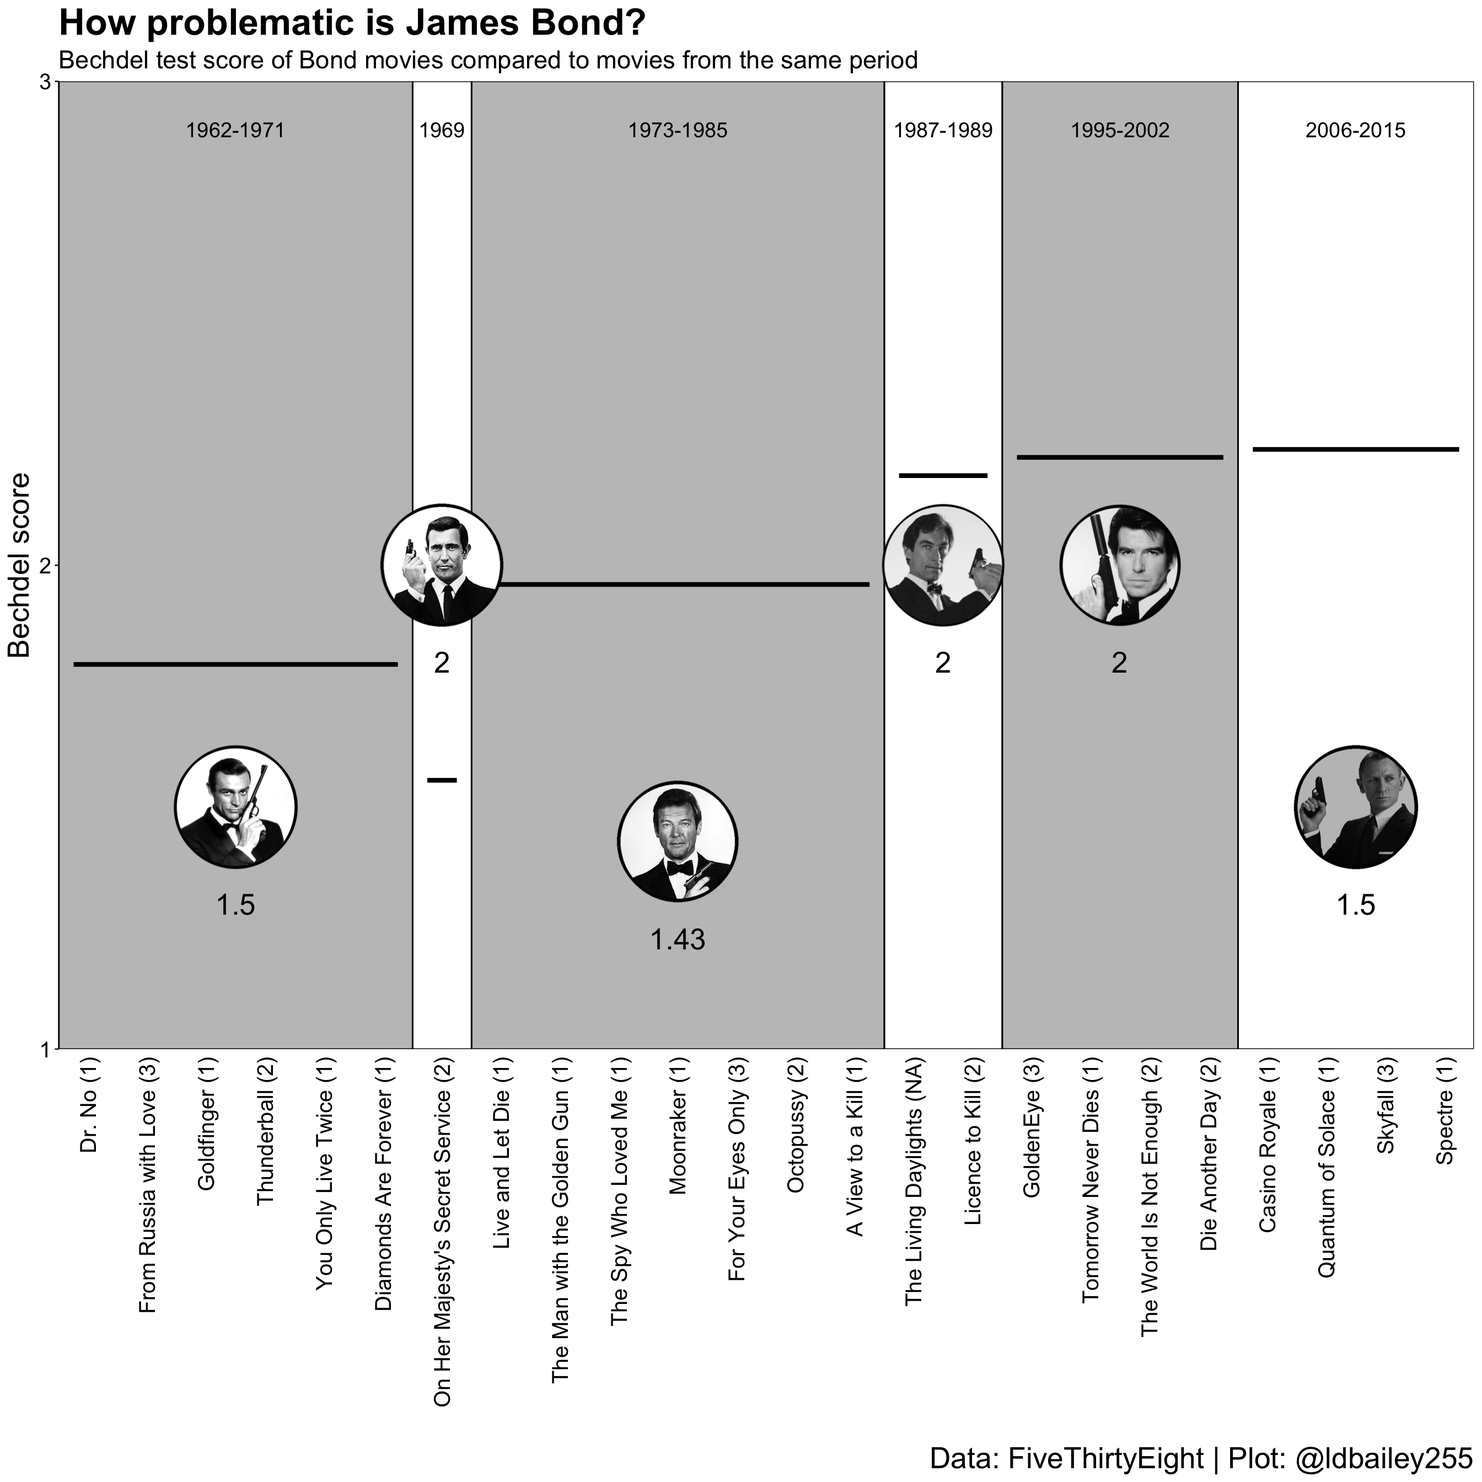
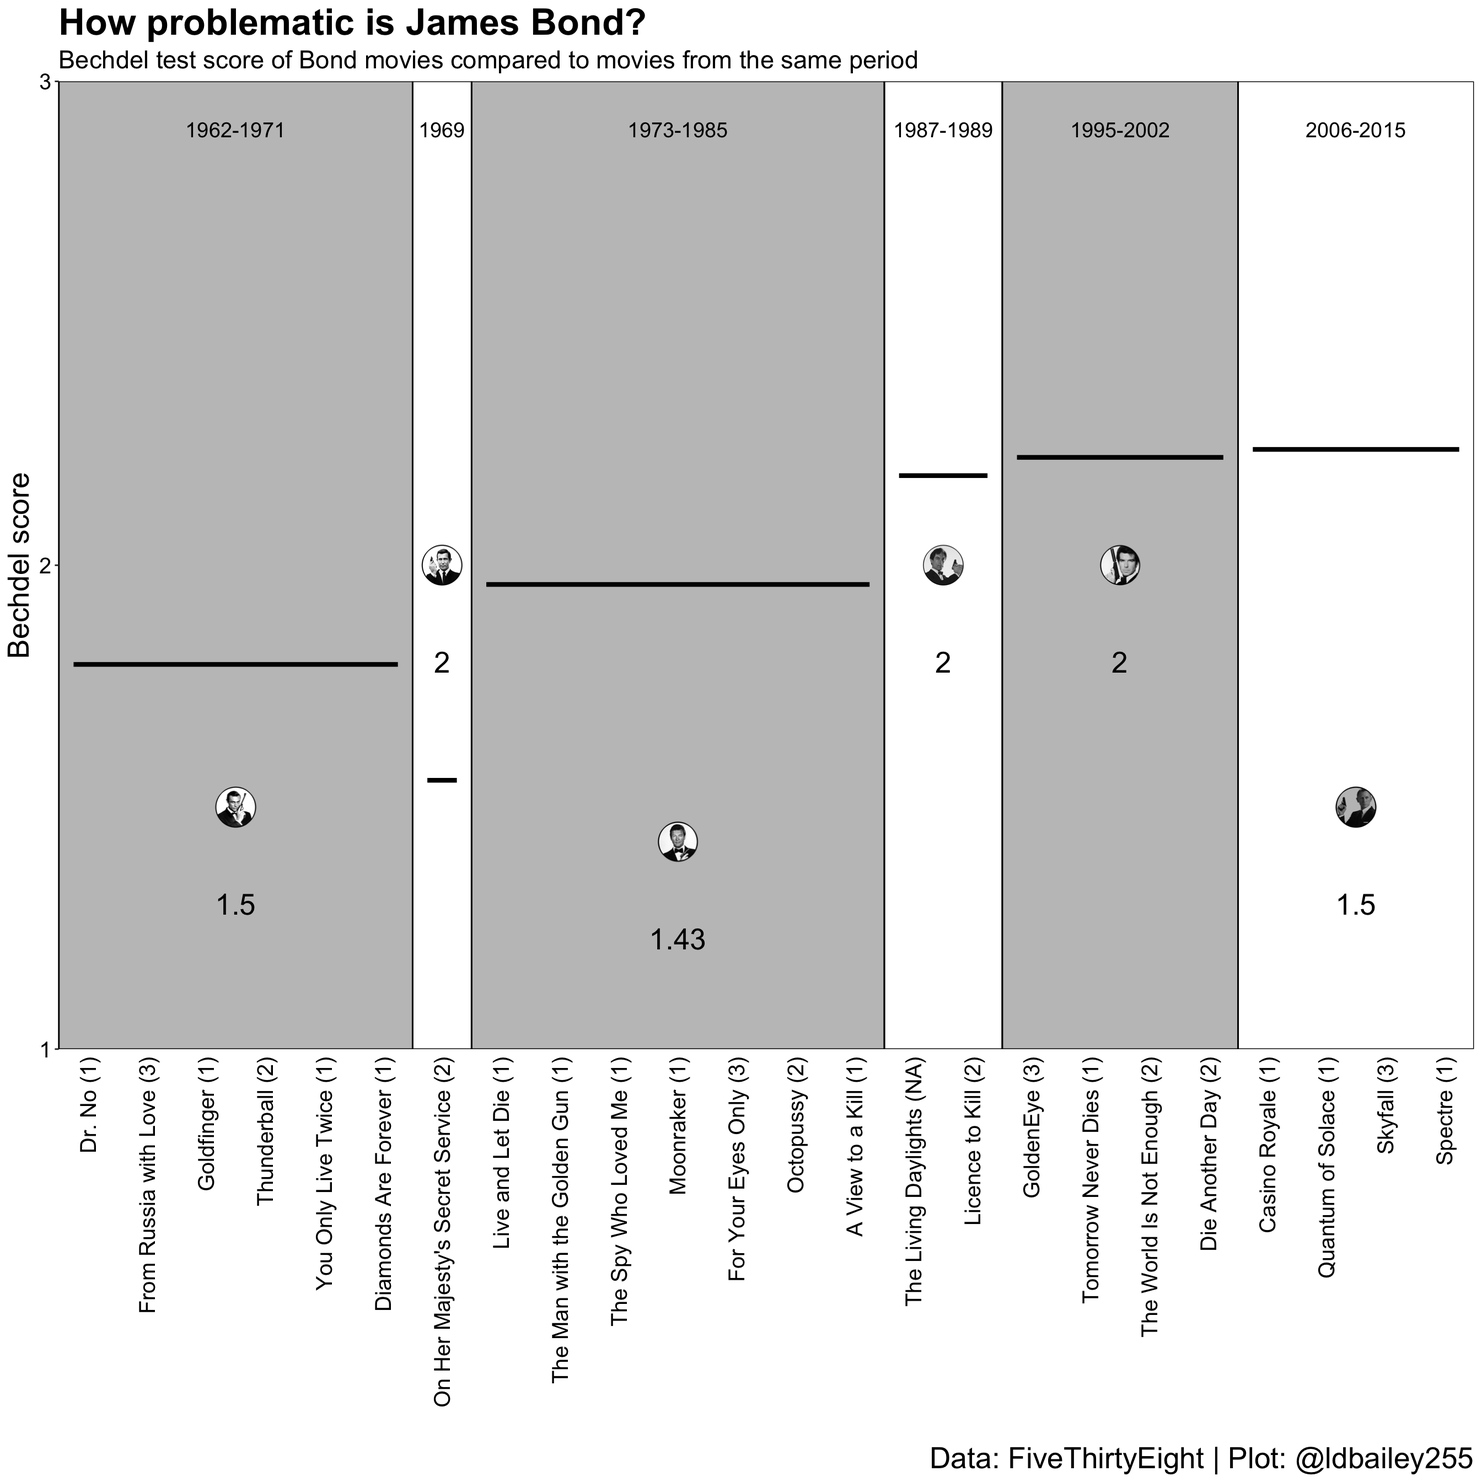
Slight improvement on Bond plot

diff --git a/_site/posts/2021-03-24-tidytuesday-week-11-2021-james-bond-s-bechdel-score-and-adding-images-in-ggplot/index.html b/_site/posts/2021-03-24-tidytuesday-week-11-2021-james-bond-s-bechdel-score-and-adding-images-in-ggplot/index.html
@@ -489,7 +489,7 @@ pre > code.sourceCode > span > a:first-child::before { text-decoration: underlin
 <span id="cb17-5"><a href="#cb17-5" aria-hidden="true" tabindex="-1"></a>  <span class="co">#For each file, read it in as a .png and then convert to a grob</span></span>
 <span id="cb17-6"><a href="#cb17-6" aria-hidden="true" tabindex="-1"></a>  <span class="fu">rowwise</span>() <span class="sc">%&gt;%</span> </span>
 <span id="cb17-7"><a href="#cb17-7" aria-hidden="true" tabindex="-1"></a>  <span class="fu">mutate</span>(<span class="at">grob =</span> <span class="fu">list</span>(grid<span class="sc">::</span><span class="fu">rasterGrob</span>(png<span class="sc">::</span><span class="fu">readPNG</span>(<span class="at">source =</span> file),</span>
-<span id="cb17-8"><a href="#cb17-8" aria-hidden="true" tabindex="-1"></a>                                      <span class="at">width =</span> <span class="fu">unit</span>(<span class="dv">3</span>, <span class="st">"cm"</span>), <span class="at">height =</span> <span class="fu">unit</span>(<span class="dv">3</span>, <span class="st">"cm"</span>))))</span>
+<span id="cb17-8"><a href="#cb17-8" aria-hidden="true" tabindex="-1"></a>                                      <span class="at">width =</span> <span class="fu">unit</span>(<span class="dv">1</span>, <span class="st">"cm"</span>), <span class="at">height =</span> <span class="fu">unit</span>(<span class="dv">1</span>, <span class="st">"cm"</span>))))</span>
 <span id="cb17-9"><a href="#cb17-9" aria-hidden="true" tabindex="-1"></a></span>
 <span id="cb17-10"><a href="#cb17-10" aria-hidden="true" tabindex="-1"></a><span class="co">#Join data frame with grobs into original data</span></span>
 <span id="cb17-11"><a href="#cb17-11" aria-hidden="true" tabindex="-1"></a>bond_era_ratings_png <span class="ot">&lt;-</span> bond_era_ratings <span class="sc">%&gt;%</span> </span>
@@ -548,15 +548,15 @@ pre > code.sourceCode > span > a:first-child::before { text-decoration: underlin
 <span id="cb20-3"><a href="#cb20-3" aria-hidden="true" tabindex="-1"></a>            <span class="at">colour =</span> <span class="cn">NA</span>, <span class="at">alpha =</span> <span class="fl">0.5</span>) <span class="sc">+</span></span>
 <span id="cb20-4"><a href="#cb20-4" aria-hidden="true" tabindex="-1"></a>  <span class="fu">geom_segment</span>(<span class="fu">aes</span>(<span class="at">x =</span> first_nr <span class="sc">+</span> <span class="fl">0.25</span>, <span class="at">xend =</span> last_nr <span class="sc">-</span> <span class="fl">0.25</span>, <span class="at">y =</span> mean_movie_rating, <span class="at">yend =</span> mean_movie_rating), <span class="at">size =</span> <span class="fl">0.75</span>) <span class="sc">+</span></span>
 <span id="cb20-5"><a href="#cb20-5" aria-hidden="true" tabindex="-1"></a>  <span class="fu">geom_text</span>(<span class="fu">aes</span>(<span class="at">x =</span> middle_point, <span class="at">y =</span> <span class="fl">2.9</span>, <span class="at">label =</span> year_text),</span>
-<span id="cb20-6"><a href="#cb20-6" aria-hidden="true" tabindex="-1"></a>            <span class="at">family =</span> <span class="st">"Mouse"</span>, <span class="at">size =</span> <span class="dv">15</span><span class="sc">/</span>.pt) <span class="sc">+</span></span>
+<span id="cb20-6"><a href="#cb20-6" aria-hidden="true" tabindex="-1"></a>            <span class="at">family =</span> <span class="st">"Mouse"</span>, <span class="at">size =</span> <span class="fl">7.5</span><span class="sc">/</span>.pt) <span class="sc">+</span></span>
 <span id="cb20-7"><a href="#cb20-7" aria-hidden="true" tabindex="-1"></a>  <span class="fu">geom_text</span>(<span class="fu">aes</span>(<span class="at">x =</span> middle_point, <span class="at">y =</span> mean_bond_rating <span class="sc">-</span> <span class="fl">0.155</span>,</span>
-<span id="cb20-8"><a href="#cb20-8" aria-hidden="true" tabindex="-1"></a>                <span class="at">label =</span> surname), <span class="at">family =</span> <span class="st">"Mouse"</span>, <span class="at">colour =</span> <span class="st">"#D53129"</span>, <span class="at">size =</span> <span class="dv">15</span><span class="sc">/</span>.pt) <span class="sc">+</span></span>
+<span id="cb20-8"><a href="#cb20-8" aria-hidden="true" tabindex="-1"></a>                <span class="at">label =</span> surname), <span class="at">family =</span> <span class="st">"Mouse"</span>, <span class="at">colour =</span> <span class="st">"#D53129"</span>, <span class="at">size =</span> <span class="fl">7.5</span><span class="sc">/</span>.pt) <span class="sc">+</span></span>
 <span id="cb20-9"><a href="#cb20-9" aria-hidden="true" tabindex="-1"></a>  <span class="fu">geom_text</span>(<span class="fu">aes</span>(<span class="at">x =</span> middle_point, <span class="at">y =</span> mean_bond_rating <span class="sc">-</span> <span class="fl">0.23</span>,</span>
 <span id="cb20-10"><a href="#cb20-10" aria-hidden="true" tabindex="-1"></a>                <span class="at">label =</span> <span class="fu">format</span>(<span class="fu">round</span>(mean_bond_rating, <span class="dv">2</span>), <span class="at">nsmall =</span> <span class="dv">2</span>)), <span class="at">family =</span> <span class="st">"Mouse"</span>,</span>
-<span id="cb20-11"><a href="#cb20-11" aria-hidden="true" tabindex="-1"></a>            <span class="at">size =</span> <span class="dv">15</span><span class="sc">/</span>.pt) <span class="sc">+</span></span>
+<span id="cb20-11"><a href="#cb20-11" aria-hidden="true" tabindex="-1"></a>            <span class="at">size =</span> <span class="fl">7.5</span><span class="sc">/</span>.pt) <span class="sc">+</span></span>
 <span id="cb20-12"><a href="#cb20-12" aria-hidden="true" tabindex="-1"></a>  <span class="fu">geom_text</span>(<span class="fu">aes</span>(<span class="at">x =</span> middle_point, <span class="at">y =</span> mean_movie_rating <span class="sc">+</span> <span class="fl">0.05</span>,</span>
 <span id="cb20-13"><a href="#cb20-13" aria-hidden="true" tabindex="-1"></a>                <span class="at">label =</span> <span class="fu">format</span>(<span class="fu">round</span>(mean_movie_rating, <span class="dv">2</span>), <span class="at">nsmall =</span> <span class="dv">2</span>)), <span class="at">family =</span> <span class="st">"Mouse"</span>,</span>
-<span id="cb20-14"><a href="#cb20-14" aria-hidden="true" tabindex="-1"></a>            <span class="at">size =</span> <span class="dv">15</span><span class="sc">/</span>.pt) <span class="sc">+</span></span>
+<span id="cb20-14"><a href="#cb20-14" aria-hidden="true" tabindex="-1"></a>            <span class="at">size =</span> <span class="fl">7.5</span><span class="sc">/</span>.pt) <span class="sc">+</span></span>
 <span id="cb20-15"><a href="#cb20-15" aria-hidden="true" tabindex="-1"></a>  egg<span class="sc">::</span><span class="fu">geom_custom</span>(<span class="fu">aes</span>(<span class="at">x =</span> middle_point, <span class="at">y =</span> mean_bond_rating, <span class="at">data =</span> grob), <span class="at">grob_fun =</span> <span class="st">"identity"</span>) <span class="sc">+</span></span>
 <span id="cb20-16"><a href="#cb20-16" aria-hidden="true" tabindex="-1"></a>  <span class="fu">scale_x_continuous</span>(<span class="at">limits =</span> <span class="fu">c</span>(<span class="dv">0</span>, <span class="cn">NA</span>), <span class="at">breaks =</span> x_labels<span class="sc">$</span>movie_nr, <span class="at">labels =</span> x_labels<span class="sc">$</span>movie) <span class="sc">+</span></span>
 <span id="cb20-17"><a href="#cb20-17" aria-hidden="true" tabindex="-1"></a>  <span class="fu">scale_y_continuous</span>(<span class="at">limits =</span> <span class="fu">c</span>(<span class="dv">1</span>, <span class="dv">3</span>), <span class="at">breaks =</span> <span class="dv">1</span><span class="sc">:</span><span class="dv">3</span>) <span class="sc">+</span></span>
@@ -568,39 +568,38 @@ pre > code.sourceCode > span > a:first-child::before { text-decoration: underlin
 <span id="cb20-23"><a href="#cb20-23" aria-hidden="true" tabindex="-1"></a>  <span class="fu">coord_fixed</span>(<span class="at">ratio =</span> <span class="dv">7</span>, <span class="at">expand =</span> <span class="cn">FALSE</span>) <span class="sc">+</span></span>
 <span id="cb20-24"><a href="#cb20-24" aria-hidden="true" tabindex="-1"></a>  <span class="fu">theme_classic</span>() <span class="sc">+</span></span>
 <span id="cb20-25"><a href="#cb20-25" aria-hidden="true" tabindex="-1"></a>  <span class="fu">theme</span>(<span class="at">legend.position =</span> <span class="st">"none"</span>, </span>
-<span id="cb20-26"><a href="#cb20-26" aria-hidden="true" tabindex="-1"></a>        <span class="at">axis.text.x =</span> <span class="fu">element_text</span>(<span class="at">angle =</span> <span class="dv">90</span>, <span class="at">hjust =</span> <span class="dv">1</span>, <span class="at">vjust =</span> <span class="fl">0.5</span>, <span class="at">size =</span> <span class="dv">15</span>,</span>
+<span id="cb20-26"><a href="#cb20-26" aria-hidden="true" tabindex="-1"></a>        <span class="at">axis.text.x =</span> <span class="fu">element_text</span>(<span class="at">angle =</span> <span class="dv">90</span>, <span class="at">hjust =</span> <span class="dv">1</span>, <span class="at">vjust =</span> <span class="fl">0.5</span>, <span class="at">size =</span> <span class="fl">7.5</span>,</span>
 <span id="cb20-27"><a href="#cb20-27" aria-hidden="true" tabindex="-1"></a>                                   <span class="at">family =</span> <span class="st">"Mouse"</span>, <span class="at">colour =</span> <span class="st">"black"</span>),</span>
-<span id="cb20-28"><a href="#cb20-28" aria-hidden="true" tabindex="-1"></a>        <span class="at">axis.text.y =</span> <span class="fu">element_text</span>(<span class="at">family =</span> <span class="st">"Mouse"</span>, <span class="at">colour =</span> <span class="st">"black"</span>, <span class="at">size =</span> <span class="dv">15</span>),</span>
+<span id="cb20-28"><a href="#cb20-28" aria-hidden="true" tabindex="-1"></a>        <span class="at">axis.text.y =</span> <span class="fu">element_text</span>(<span class="at">family =</span> <span class="st">"Mouse"</span>, <span class="at">colour =</span> <span class="st">"black"</span>, <span class="at">size =</span> <span class="fl">7.5</span>),</span>
 <span id="cb20-29"><a href="#cb20-29" aria-hidden="true" tabindex="-1"></a>        <span class="at">axis.ticks.x =</span> <span class="fu">element_blank</span>(),</span>
 <span id="cb20-30"><a href="#cb20-30" aria-hidden="true" tabindex="-1"></a>        <span class="at">axis.line.x =</span> <span class="fu">element_blank</span>(),</span>
 <span id="cb20-31"><a href="#cb20-31" aria-hidden="true" tabindex="-1"></a>        <span class="at">axis.title =</span> <span class="fu">element_text</span>(<span class="at">family =</span> <span class="st">"Mouse"</span>, <span class="at">size =</span> <span class="dv">20</span>),</span>
-<span id="cb20-32"><a href="#cb20-32" aria-hidden="true" tabindex="-1"></a>        <span class="at">plot.title =</span> <span class="fu">element_text</span>(<span class="at">family =</span> <span class="st">"Mouse"</span>, <span class="at">size =</span> <span class="dv">25</span>, <span class="at">margin =</span> <span class="fu">margin</span>(<span class="at">b =</span> <span class="fl">7.5</span>)),</span>
-<span id="cb20-33"><a href="#cb20-33" aria-hidden="true" tabindex="-1"></a>        <span class="at">plot.subtitle =</span> <span class="fu">element_text</span>(<span class="at">size =</span> <span class="dv">15</span>, <span class="at">margin =</span> <span class="fu">margin</span>(<span class="at">b =</span> <span class="dv">15</span>)))</span>
+<span id="cb20-32"><a href="#cb20-32" aria-hidden="true" tabindex="-1"></a>        <span class="at">plot.title =</span> <span class="fu">element_text</span>(<span class="at">family =</span> <span class="st">"Mouse"</span>, <span class="at">size =</span> <span class="dv">25</span>, <span class="at">margin =</span> <span class="fu">margin</span>(<span class="at">b =</span> <span class="fl">3.75</span>)),</span>
+<span id="cb20-33"><a href="#cb20-33" aria-hidden="true" tabindex="-1"></a>        <span class="at">plot.subtitle =</span> <span class="fu">element_text</span>(<span class="at">size =</span> <span class="fl">7.5</span>, <span class="at">margin =</span> <span class="fu">margin</span>(<span class="at">b =</span> <span class="fl">7.5</span>)))</span>
 <span id="cb20-34"><a href="#cb20-34" aria-hidden="true" tabindex="-1"></a></span>
 <span id="cb20-35"><a href="#cb20-35" aria-hidden="true" tabindex="-1"></a>main <span class="ot">&lt;-</span> ggplot2<span class="sc">::</span><span class="fu">ggplotGrob</span>(main_plot)</span>
 <span id="cb20-36"><a href="#cb20-36" aria-hidden="true" tabindex="-1"></a></span>
-<span id="cb20-37"><a href="#cb20-37" aria-hidden="true" tabindex="-1"></a>labels <span class="ot">&lt;-</span> <span class="fu">data.frame</span>(<span class="at">x =</span> <span class="fl">0.87</span>, <span class="at">y =</span> <span class="fu">c</span>(<span class="fl">0.8</span>, <span class="fl">0.375</span>),</span>
+<span id="cb20-37"><a href="#cb20-37" aria-hidden="true" tabindex="-1"></a>labels <span class="ot">&lt;-</span> <span class="fu">data.frame</span>(<span class="at">x =</span> <span class="fl">0.87</span>, <span class="at">y =</span> <span class="fu">c</span>(<span class="fl">0.65</span>, <span class="fl">0.375</span>),</span>
 <span id="cb20-38"><a href="#cb20-38" aria-hidden="true" tabindex="-1"></a>                     <span class="at">text =</span> <span class="fu">c</span>(<span class="st">"Movies from the same period"</span>,</span>
 <span id="cb20-39"><a href="#cb20-39" aria-hidden="true" tabindex="-1"></a>                              <span class="st">"Score of Bond movies"</span>))</span>
 <span id="cb20-40"><a href="#cb20-40" aria-hidden="true" tabindex="-1"></a></span>
 <span id="cb20-41"><a href="#cb20-41" aria-hidden="true" tabindex="-1"></a><span class="fu">ggplot</span>()<span class="sc">+</span></span>
 <span id="cb20-42"><a href="#cb20-42" aria-hidden="true" tabindex="-1"></a>  <span class="fu">scale_x_continuous</span>(<span class="at">limits =</span> <span class="fu">c</span>(<span class="dv">0</span>, <span class="dv">1</span>), <span class="at">expand =</span> <span class="fu">c</span>(<span class="dv">0</span>, <span class="dv">0</span>)) <span class="sc">+</span></span>
-<span id="cb20-43"><a href="#cb20-43" aria-hidden="true" tabindex="-1"></a>  <span class="fu">scale_y_continuous</span>(<span class="at">limits =</span> <span class="fu">c</span>(<span class="dv">0</span>, <span class="dv">1</span>), <span class="at">expand =</span> <span class="fu">c</span>(<span class="dv">0</span>, <span class="dv">0</span>)) <span class="sc">+</span></span>
+<span id="cb20-43"><a href="#cb20-43" aria-hidden="true" tabindex="-1"></a>  <span class="fu">scale_y_continuous</span>(<span class="at">limits =</span> <span class="fu">c</span>(<span class="fl">0.2</span>, <span class="fl">0.8</span>), <span class="at">expand =</span> <span class="fu">c</span>(<span class="dv">0</span>, <span class="dv">0</span>)) <span class="sc">+</span></span>
 <span id="cb20-44"><a href="#cb20-44" aria-hidden="true" tabindex="-1"></a>  <span class="fu">annotation_custom</span>(<span class="at">grob =</span> main, <span class="at">xmin =</span> <span class="dv">0</span>, <span class="at">xmax =</span> <span class="fl">0.75</span>, <span class="at">ymin =</span> <span class="dv">0</span>, <span class="at">ymax =</span> <span class="dv">1</span>) <span class="sc">+</span></span>
-<span id="cb20-45"><a href="#cb20-45" aria-hidden="true" tabindex="-1"></a>  <span class="fu">geom_curve</span>(<span class="fu">aes</span>(<span class="at">x =</span> <span class="fl">0.825</span>, <span class="at">xend =</span> <span class="fl">0.7</span>, <span class="at">y =</span> <span class="fl">0.8</span>, <span class="at">yend =</span> <span class="fl">0.725</span>), <span class="at">curvature =</span> <span class="fl">0.2</span>,</span>
+<span id="cb20-45"><a href="#cb20-45" aria-hidden="true" tabindex="-1"></a>  <span class="fu">geom_curve</span>(<span class="fu">aes</span>(<span class="at">x =</span> <span class="fl">0.825</span>, <span class="at">xend =</span> <span class="fl">0.7</span>, <span class="at">y =</span> <span class="fl">0.65</span>, <span class="at">yend =</span> <span class="fl">0.575</span>), <span class="at">curvature =</span> <span class="fl">0.2</span>,</span>
 <span id="cb20-46"><a href="#cb20-46" aria-hidden="true" tabindex="-1"></a>             <span class="at">arrow =</span> <span class="fu">arrow</span>(<span class="at">length =</span> <span class="fu">unit</span>(<span class="fl">0.1</span>, <span class="st">"inches"</span>)), <span class="at">size =</span> <span class="dv">1</span>) <span class="sc">+</span></span>
 <span id="cb20-47"><a href="#cb20-47" aria-hidden="true" tabindex="-1"></a>  <span class="fu">geom_curve</span>(<span class="fu">aes</span>(<span class="at">x =</span> <span class="fl">0.825</span>, <span class="at">xend =</span> <span class="fl">0.7</span>, <span class="at">y =</span> <span class="fl">0.375</span>, <span class="at">yend =</span> <span class="fl">0.45</span>), <span class="at">curvature =</span> <span class="sc">-</span><span class="fl">0.2</span>,</span>
 <span id="cb20-48"><a href="#cb20-48" aria-hidden="true" tabindex="-1"></a>             <span class="at">arrow =</span> <span class="fu">arrow</span>(<span class="at">length =</span> <span class="fu">unit</span>(<span class="fl">0.1</span>, <span class="st">"inches"</span>)), <span class="at">size =</span> <span class="dv">1</span>) <span class="sc">+</span></span>
 <span id="cb20-49"><a href="#cb20-49" aria-hidden="true" tabindex="-1"></a>  <span class="fu">geom_label</span>(<span class="at">data =</span> labels, <span class="fu">aes</span>(<span class="at">x =</span> x, <span class="at">y =</span> y, <span class="at">label =</span> text),</span>
-<span id="cb20-50"><a href="#cb20-50" aria-hidden="true" tabindex="-1"></a>                        <span class="at">family =</span> <span class="st">"Mouse"</span>, <span class="at">colour =</span> <span class="st">'#D53129'</span>, <span class="at">size =</span> <span class="dv">15</span><span class="sc">/</span>.pt) <span class="sc">+</span></span>
+<span id="cb20-50"><a href="#cb20-50" aria-hidden="true" tabindex="-1"></a>                        <span class="at">family =</span> <span class="st">"Mouse"</span>, <span class="at">colour =</span> <span class="st">'#D53129'</span>, <span class="at">size =</span> <span class="fl">7.5</span><span class="sc">/</span>.pt) <span class="sc">+</span></span>
 <span id="cb20-51"><a href="#cb20-51" aria-hidden="true" tabindex="-1"></a>  <span class="fu">labs</span>(<span class="at">caption =</span> <span class="st">"Data: FiveThirtyEight | Plot: @ldbailey255"</span>) <span class="sc">+</span></span>
 <span id="cb20-52"><a href="#cb20-52" aria-hidden="true" tabindex="-1"></a>  <span class="fu">theme_void</span>() <span class="sc">+</span></span>
-<span id="cb20-53"><a href="#cb20-53" aria-hidden="true" tabindex="-1"></a>  <span class="fu">theme</span>(<span class="at">plot.caption =</span> <span class="fu">element_text</span>(<span class="at">family =</span> <span class="st">"Ubuntu Mono"</span>, <span class="at">size =</span> <span class="dv">10</span>))</span></code><button title="Copy to Clipboard" class="code-copy-button"><i class="bi"></i></button></pre></div>
+<span id="cb20-53"><a href="#cb20-53" aria-hidden="true" tabindex="-1"></a>  <span class="fu">theme</span>(<span class="at">plot.caption =</span> <span class="fu">element_text</span>(<span class="at">family =</span> <span class="st">"Ubuntu Mono"</span>, <span class="at">size =</span> <span class="dv">5</span>))</span></code><button title="Copy to Clipboard" class="code-copy-button"><i class="bi"></i></button></pre></div>
 <div class="cell-output-display">
-<p><img src="index_files/figure-html/unnamed-chunk-20-1.png" class="img-fluid" width="672"></p>
+<p><img src="index_files/figure-html/unnamed-chunk-20-1.png" class="img-fluid" width="864"></p>
 </div>
 </div>
-<p><img src="featured.png" class="img-fluid"></p>
 <p><br></p>
 </section>
 <section id="conclusion" class="level2">

diff --git a/_site/blog.html b/_site/blog.html
@@ -369,7 +369,7 @@ ul.task-list li input[type="checkbox"] {
           R
         </span>
         <span class="time secondary">
-          33 min read
+          28 min read
         </span>
   </div>
   <h3 class="title">TidyTuesday - Week 11 (2021)</h3>
